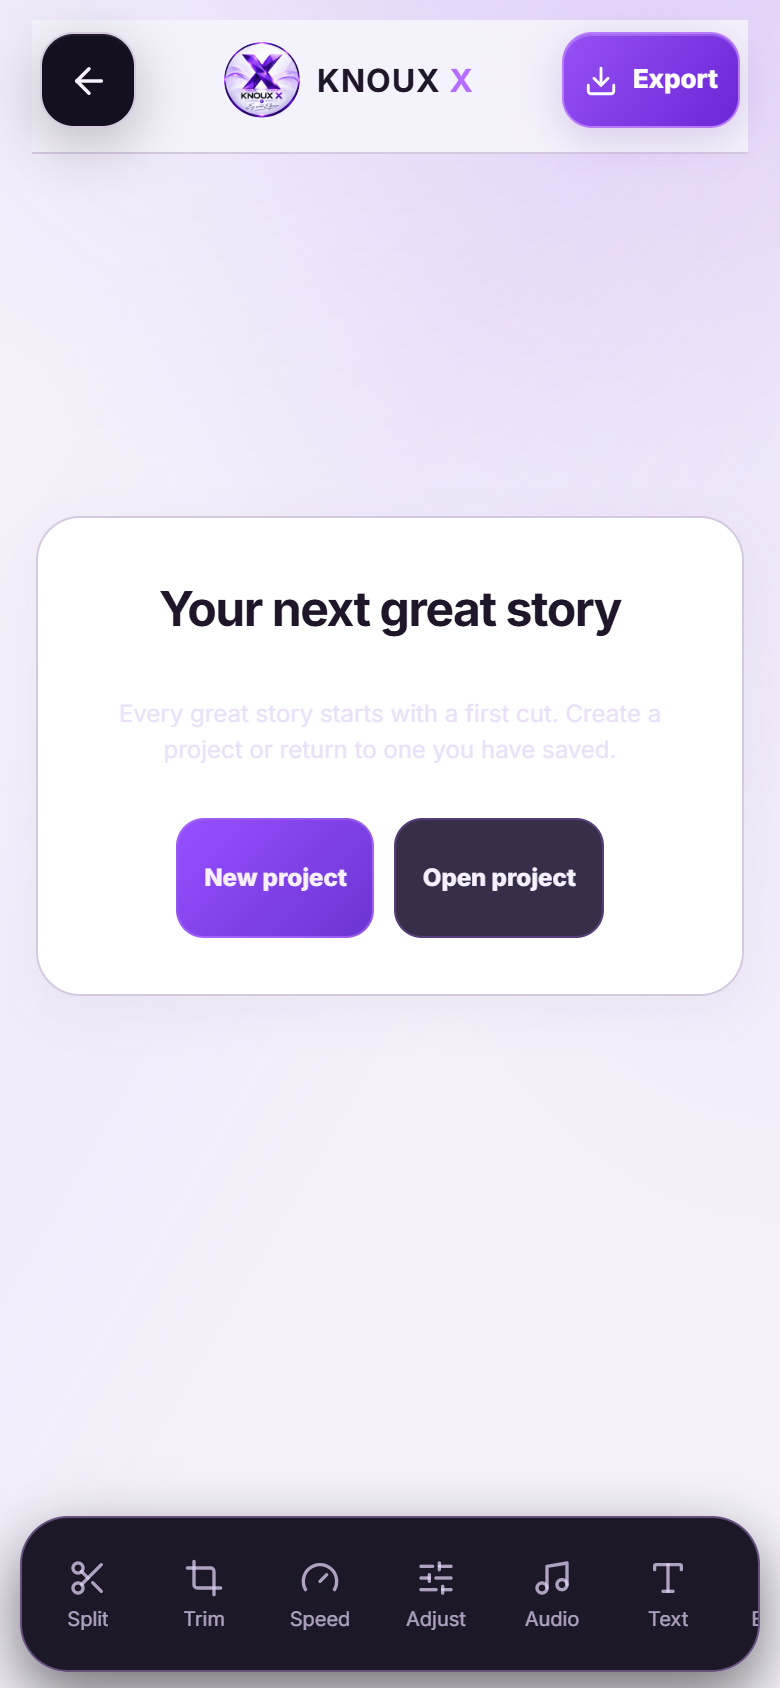
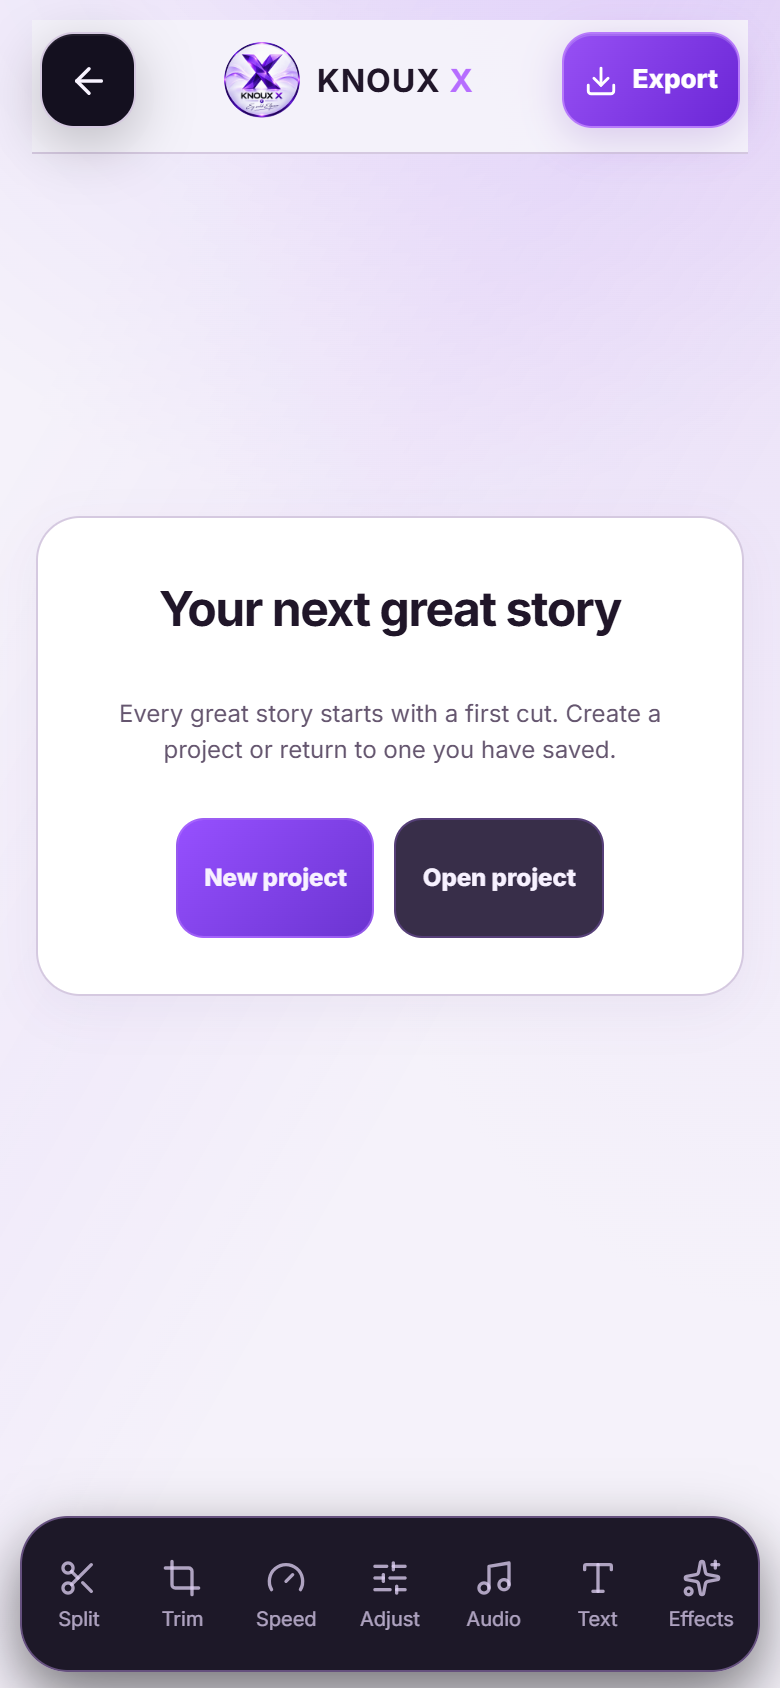
fix(android-visual): daylight contrast pass + tool dock fit + capture tool arg fix
- dock: fit all 7 tools with >=44px targets at 360/390/412 (was 402px flex in 368px box, Effects clipped)
- export: light-theme overrides for Choose/selected chips/section values/badge/icon/disabled primary (1.3-2.4:1 -> 4.7-8:1)
- player empty: h1/p readable on dark cinema stage in light theme (dark-on-dark -> >=8:1); dark theme untouched
- recording: checkbox color-scheme light; active chips white-on-purple; field labels + kicker to --kx-muted
- daylight hero accents unified to #a855f7 (large-text AA); home kicker + All tools to --kx-lavender
- video-studio start-card subtitle to --kx-muted; p2v footer to readable grey-violet
- visual-capture.cjs: fix --out/--base-url fallback bug (argv[0] when flags missing)
- evidence: full matrix re-captured, 0 failures; typecheck + 148 suites / 1285 tests green

diff --git a/src/styles/android-visual-system.css b/src/styles/android-visual-system.css
@@ -169,9 +169,12 @@
 :root[data-platform='android'][data-runtime='android'][data-theme] .kmc-mobile-track-lane button { border-radius: 10px; border-color: #a166e6; }
 :root[data-platform='android'][data-runtime='android'][data-theme] .kms-strip > button { border-radius: 15px; border-color: #5a3b78; }
 :root[data-platform='android'][data-runtime='android'][data-theme] :is(.kmc-tool-dock, .kmc-photo-tool-dock) { background: #14101ff5; border-color: #65507e; box-shadow: 0 12px 30px #0008; }
-:root[data-platform='android'][data-runtime='android'][data-theme] .kmc-tool-dock { display: flex; overflow-x: auto; overscroll-behavior-x: contain; gap: 4px; }
-:root[data-platform='android'][data-runtime='android'][data-theme] .kmc-tool-dock button { flex: 1 0 54px; min-width: 54px; min-height: 60px; }
+:root[data-platform='android'][data-runtime='android'][data-theme] .kmc-tool-dock { display: flex; gap: 4px; }
+:root[data-platform='android'][data-runtime='android'][data-theme] .kmc-tool-dock button { flex: 1 1 0; min-width: 0; min-height: 60px; }
 :root[data-platform='android'][data-runtime='android'][data-theme] .kmc-tool-dock span { font-size: 10px; white-space: normal; line-height: 1.25; }
+@media (max-width: 390px) {
+  :root[data-platform='android'][data-runtime='android'][data-theme] .kmc-tool-dock { gap: 3px; padding-inline: 4px; }
+}
 :root[data-platform='android'][data-runtime='android'][data-theme] :is(.kmc-tool-tabs, .kmc-filter-grid) { gap: 8px; overflow-x: auto; }
 :root[data-platform='android'][data-runtime='android'][data-theme] .kmc-filter-chip { font-size: 12px; }
 :root[data-platform='android'][data-runtime='android'][data-theme] .kmc-slider-group label { font-size: 13px; justify-content: space-between; }
@@ -288,6 +291,23 @@
 :root[data-platform='android'][data-runtime='android'][data-theme][data-theme='system-light'] :is(.kmh-overlay-sheet, .ump-sheet) { background: #faf7ff; color: var(--kx-text); }
 :root[data-platform='android'][data-runtime='android'][data-theme][data-theme='system-light'] :is(.kmh-overlay-list > button, .kmh-overlay-list strong) { color: var(--kx-text); }
 :root[data-platform='android'][data-runtime='android'][data-theme][data-theme='system-light'] :is(.kml-search input, .kms-card input, .kme-panel input, .kmc-photo-tool-dock input) { color-scheme: light; }
+:root[data-platform='android'][data-runtime='android'][data-theme][data-theme='system-light'] :is(.kme-hero > span, .kme-section-title > span, .kme-source-copy small, .kme-source-copy span) { color: var(--kx-muted); }
+:root[data-platform='android'][data-runtime='android'][data-theme][data-theme='system-light'] .kme-section-title strong { color: var(--kx-text); }
+:root[data-platform='android'][data-runtime='android'][data-theme][data-theme='system-light'] .kme-source-card > button { box-shadow: inset 0 0 0 1px #cbaef5; background: #efe4ff; color: #5b21b6; }
+:root[data-platform='android'][data-runtime='android'][data-theme][data-theme='system-light'] :is(.kme-resolution-grid button:not(.active), .kme-chip-row button:not(.active)) { border-color: var(--kx-line); background: #fff; color: #4a3d5c; }
+:root[data-platform='android'][data-runtime='android'][data-theme][data-theme='system-light'] :is(.kme-resolution-grid button.active, .kme-chip-row button.active) { border-color: #7c2fe8; background: linear-gradient(145deg, #6d28d9, #8b3dff); color: #fff; box-shadow: 0 6px 18px #7c2fe83d; }
+:root[data-platform='android'][data-runtime='android'][data-theme][data-theme='system-light'] .kme-local-badge { border-color: #cbaef5; background: #efe4ff; color: #5b21b6; }
+:root[data-platform='android'][data-runtime='android'][data-theme][data-theme='system-light'] .kme-source-icon { background: linear-gradient(145deg, #e9dcff, #f7f0ff); color: #6d28d9; }
+:root[data-platform='android'][data-runtime='android'][data-theme][data-theme='system-light'] .kme-export-primary:disabled { opacity: 1; border-color: #d7c7f2; background: #e9defc; color: #6b4fa0; box-shadow: none; }
+:root[data-platform='android'][data-runtime='android'][data-theme][data-theme='system-light'] .kmc-mobile-start-card > span { color: var(--kx-muted); }
+:root[data-platform='android'][data-runtime='android'][data-theme][data-theme='system-light'] .kmc-creative-footer { color: #6a5b7d; }
+:root[data-platform='android'][data-runtime='android'][data-theme][data-theme='system-light'] .kmr-toggle input { color-scheme: light; }
+:root[data-platform='android'][data-runtime='android'][data-theme][data-theme='system-light'] .ump-empty h1 { color: #f6f0ff; }
+:root[data-platform='android'][data-runtime='android'][data-theme][data-theme='system-light'] .ump-empty p { color: #b7a8c8; }
+:root[data-platform='android'][data-runtime='android'][data-theme][data-theme='system-light'] :is(.kmr-hero > span, .kmr-field > span) { color: var(--kx-muted); }
+:root[data-platform='android'][data-runtime='android'][data-theme][data-theme='system-light'] .kmr-field button.active { color: #fff; }
+:root[data-platform='android'][data-runtime='android'][data-theme][data-theme='system-light'] :is(.kmh-greeting h1 em, .kmr-hero h1 em, .kme-hero h1 em, .kms-hero h1 em, .kmc-intro-card h1 em) { color: #a855f7; }
+:root[data-platform='android'][data-runtime='android'][data-theme][data-theme='system-light'] :is(.kmh-section-heading span, .kmh-section-heading > button) { color: var(--kx-lavender); }
 
 :root[data-platform='android'][data-runtime='android'][data-theme] .ump-sheet { display: flex; flex-direction: column; overflow: hidden; max-height: min(86dvh, 760px); }
 :root[data-platform='android'][data-runtime='android'][data-theme] :is(.ump-sheet-handle, .ump-sheet-head) { flex-shrink: 0; }

diff --git a/design-evidence/android-visual-20261019/VISUAL-CHANGELOG.md b/design-evidence/android-visual-20261019/VISUAL-CHANGELOG.md
@@ -13,10 +13,34 @@
 - 8fdc299 evidence: visual matrix capture via tools/visual-capture.cjs (Playwright, browser runtime adapter): 12 screens x 3 viewports (360x800, 390x844, 412x915) + landscape, status VISUAL_RUNTIME_VERIFIED (browser runtime adapter; not device-touch)
 - Capture server note: served by an existing visual-review Vite instance on 127.0.0.1:4173 (serves this worktree via vite.visual-review.config.ts). Correct start command: npx vite --config vite.visual-review.config.ts (this project has no npm run dev script).
 
-## Honest findings pending fix (from matrix review)
+## Honest findings (first matrix review, historical record)
 1. Video Studio empty state: large dead whitespace above start card; bottom tool dock clips a 7th item at right edge (check scroll affordance)
 2. Export screen: Choose button and selected segmented chips washed-out; AA contrast risk in Daylight theme
 3. Player empty state: 'Open local media' heading very low contrast on black
 4. Photos-to-Video: footer strip 'SIMPLE TO CREATE - POWERFUL TO FEEL' low contrast
 5. Recording: microphone checkbox renders as plain dark square (native accent), weak affordance
 6. Dark 'Deep Black' theme variants NOT yet captured (next: capture with data-theme deep-black, AR-RTL, reduced-motion, keyboard)
+
+## 2026-10-19 - Fixes pass (presentation-only, daylight/system-light theme)
+
+Measured with live DOM probes (Playwright, msedge) before/after; all fixes are CSS-only except the capture tool arg bug. No handlers, props, routing, persistence or logic touched.
+
+1. Tool dock clipping (CONFIRMED GEOMETRY BUG): android-visual-system.css forced `flex: 1 0 54px; min-width: 54px` -> dock scrollWidth 414px inside 368px box, 'Effects' clipped ~39px past the viewport at 390px (and worse at 360px). Fixed to `flex: 1 1 0; min-width: 0` (+ 3px gap/4px inline padding under 390px). Verified: 360 -> 45px min button (7/7 visible), 390 -> 49px, 412 -> 51px; touch targets stay >= 44px; scrollWidth == clientWidth.
+2. Video Studio dead whitespace: MEASURED as intentional centered empty state (`place-items: center` on the 70dvh empty region; card center 379px vs region center 382px). No layout change made; only the real dock clip was fixed. Start-card subtitle contrast fixed: rgba(224,211,245,.7) on white -> var(--kx-muted) (1.5:1 -> 5.7:1).
+3. Export light-theme contrast (all were dark-theme colors on white cards):
+   - Choose button: #d9c6ff on ~#eadcfb (1.6:1) -> #5b21b6 on #efe4ff with violet ring (7.4:1)
+   - Selected chips (1080p / 30 / 8): #efe7ff on light lavender (1.3:1) -> white on #6d28d9..#8b3dff gradient (4.7:1+)
+   - Unselected chips: #a9a1b5 (~2.4:1) -> #4a3d5c on #fff (8:1+)
+   - Section values (1920x1080 / 30 FPS / 8 Mbps): #ddd2ec (1.3:1) -> var(--kx-text)
+   - Section labels + source copy small/span: #9d91ae/#8f8799 (~3:1) -> var(--kx-muted) (5.7:1)
+   - ON DEVICE badge: #d8c5ff (1.5:1) -> #5b21b6 on #efe4ff; source icon -> #6d28d9 on pale violet
+   - Disabled Export Video: opacity .48 white-on-pale -> flat #e9defc/#6b4fa0 (no fake enabled state; still clearly disabled)
+4. Player empty state (always-dark cinema stage): h1 inherited --kx-text = #201629 dark-on-dark; p --kx-muted dark-on-dark. Light-theme scoped override h1 -> #f6f0ff, p -> #b7a8c8 (>= 8:1 on #040208). Dark theme untouched. Full player dark-text scan: only these 2 nodes affected.
+5. Recording: mic checkbox `color-scheme: dark` on a now-light panel rendered the native dark square; light-theme scoped `color-scheme: light` (accent stays #a76bff). Also fixed on this screen: active option chips had rgb(101,86,111) text on an rgb(81,34,126) deep purple chip = 1.66:1 -> white text (9:1); field labels #c5bfce (1.7:1) -> var(--kx-muted); hero kicker #c4a6ff (1.85:1) -> var(--kx-muted).
+6. Cross-screen daylight accents unified for large-text AA: hero `em` accents #c4a6ff / #b66dff / #d3acff (1.85-2.9:1) -> #a855f7 (3.6:1) on recording/export/slideshow/home-greeting; home section kicker + 'All tools' #b995ff / #c89dff (~2:1) -> var(--kx-lavender) (6.97:1). Dark-surface accents (e.g. hero card on Home, which sits on a dark card) intentionally NOT changed.
+7. tools/visual-capture.cjs: fixed flag parsing bug (missing --out/--base-url fell back to argv[0], i.e. node.exe path, failing mkdir). Defaults now resolve correctly.
+
+Re-capture after fixes: tools/visual-capture.cjs full matrix, 0 failures, 33 screenshots regenerated at 2026-10-19T07:11Z; typecheck + full unit suite green (148 suites / 1285 tests) before capture.
+
+## Still pending (not yet captured)
+- Dark 'Deep Black' theme variants, AR-RTL, reduced-motion, keyboard pass (next: extend capture tool; on-screen keyboard likely BLOCKED_ENVIRONMENT in browser, deferred to device)
